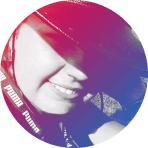
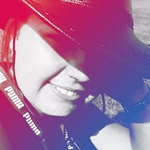
add border animation

diff --git a/src/scss/main.scss b/src/scss/main.scss
@@ -2,6 +2,13 @@
 @import "_variables";
 @import url('https://fonts.googleapis.com/css?family=Roboto:400,400i&display=swap&subset=latin-ext');
 
+@keyframes waves {
+  0% { border-radius: 30% 70% 70% 30%/30% 30% 70% 70%; }
+  25% { border-radius: 70% 30% 30% 70%/70% 70% 30% 30%; }
+  50% { border-radius: 30% 70% 70% 30%/30% 30% 70% 70%; }
+  100% { border-radius: 70% 30% 30% 70%/70% 70% 30% 30%; }
+}
+
 html {
   box-sizing: border-box;
 }
@@ -70,16 +77,23 @@ body {
     font-style: italic;
     font-weight: normal;
   }
-  &__photo {
-    height: $photo;
-    margin: 0 32px 16px 0;
-    width: $photo;
-    @media screen and (max-width: $vertical) {
-      margin: 0;
-    }
-  }
   @media screen and (max-width: $vertical) {
     flex-wrap: wrap;
     justify-content: center;
+  }
+}
+
+.photo {
+  margin: 0 32px 16px 0;
+  position: relative;
+  &__img {
+    animation: waves 30s infinite alternate ease-in-out;
+    border-radius: 30% 70% 70% 30%/30% 30% 70% 70%;
+    height: $photo;
+    width: $photo;
+    will-change: border-radius;
+  }
+  @media screen and (max-width: $vertical) {
+    margin: 0;
   }
 }

diff --git a/src/content/index.html b/src/content/index.html
@@ -18,7 +18,9 @@
 <body>
   <main class="card">
     <article class="person">
-      <img src="assets/img/avatar.png" alt="Katarzyna Izak" class="person__photo">
+      <div class="photo">
+        <img src="assets/img/avatar.png" alt="Zdjęcie Katarzyny Izak w kowbojskim kapeluszu" class="photo__img">
+      </div>
       <div class="person__description">
         <header class="person__header">
           <h1 class="person__name">Katarzyna Izak</h1>
